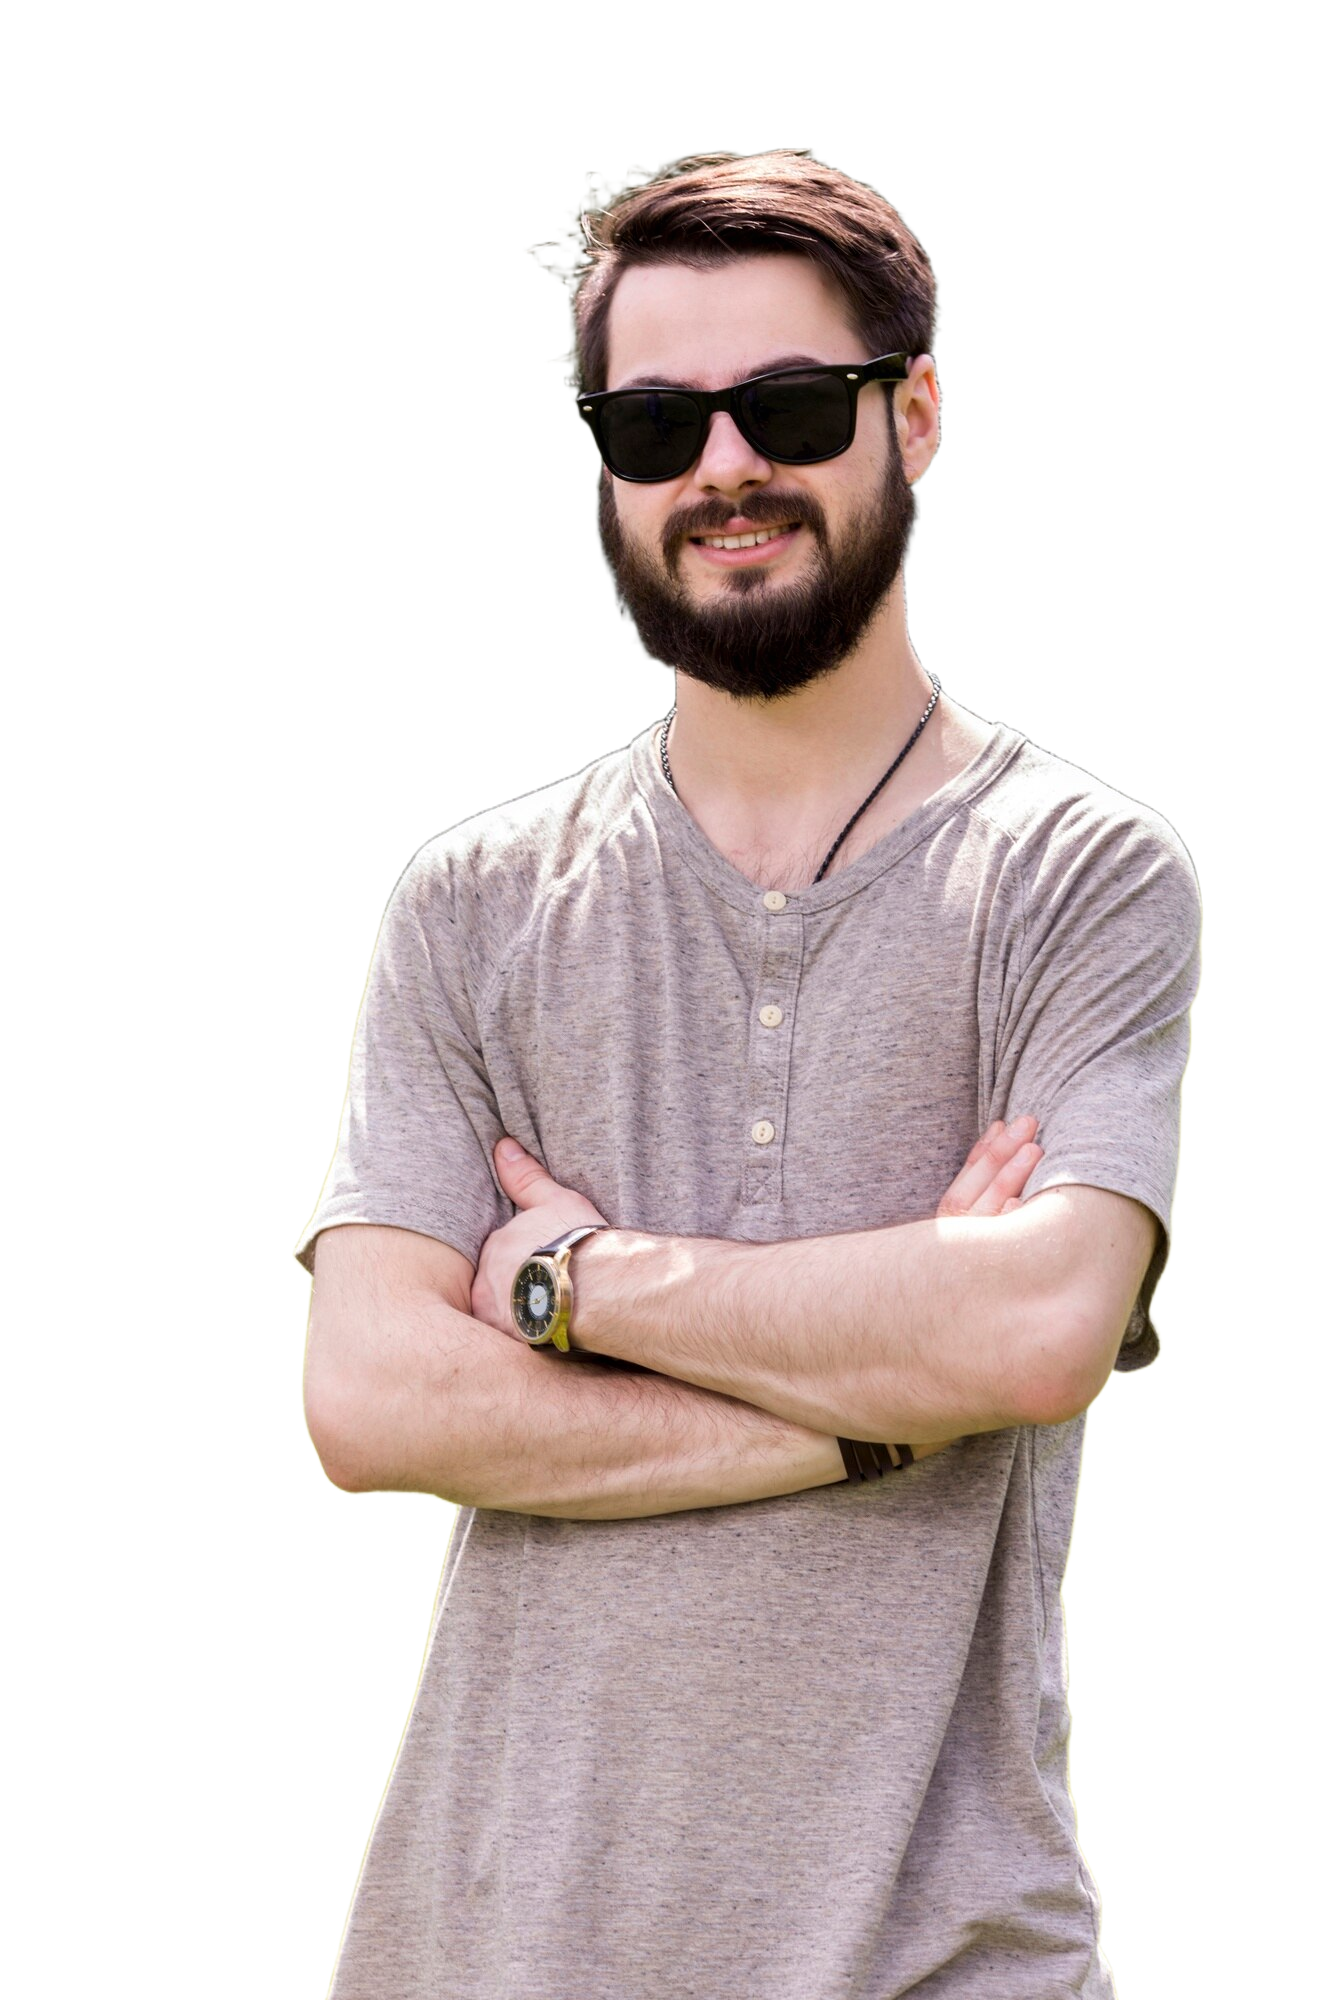
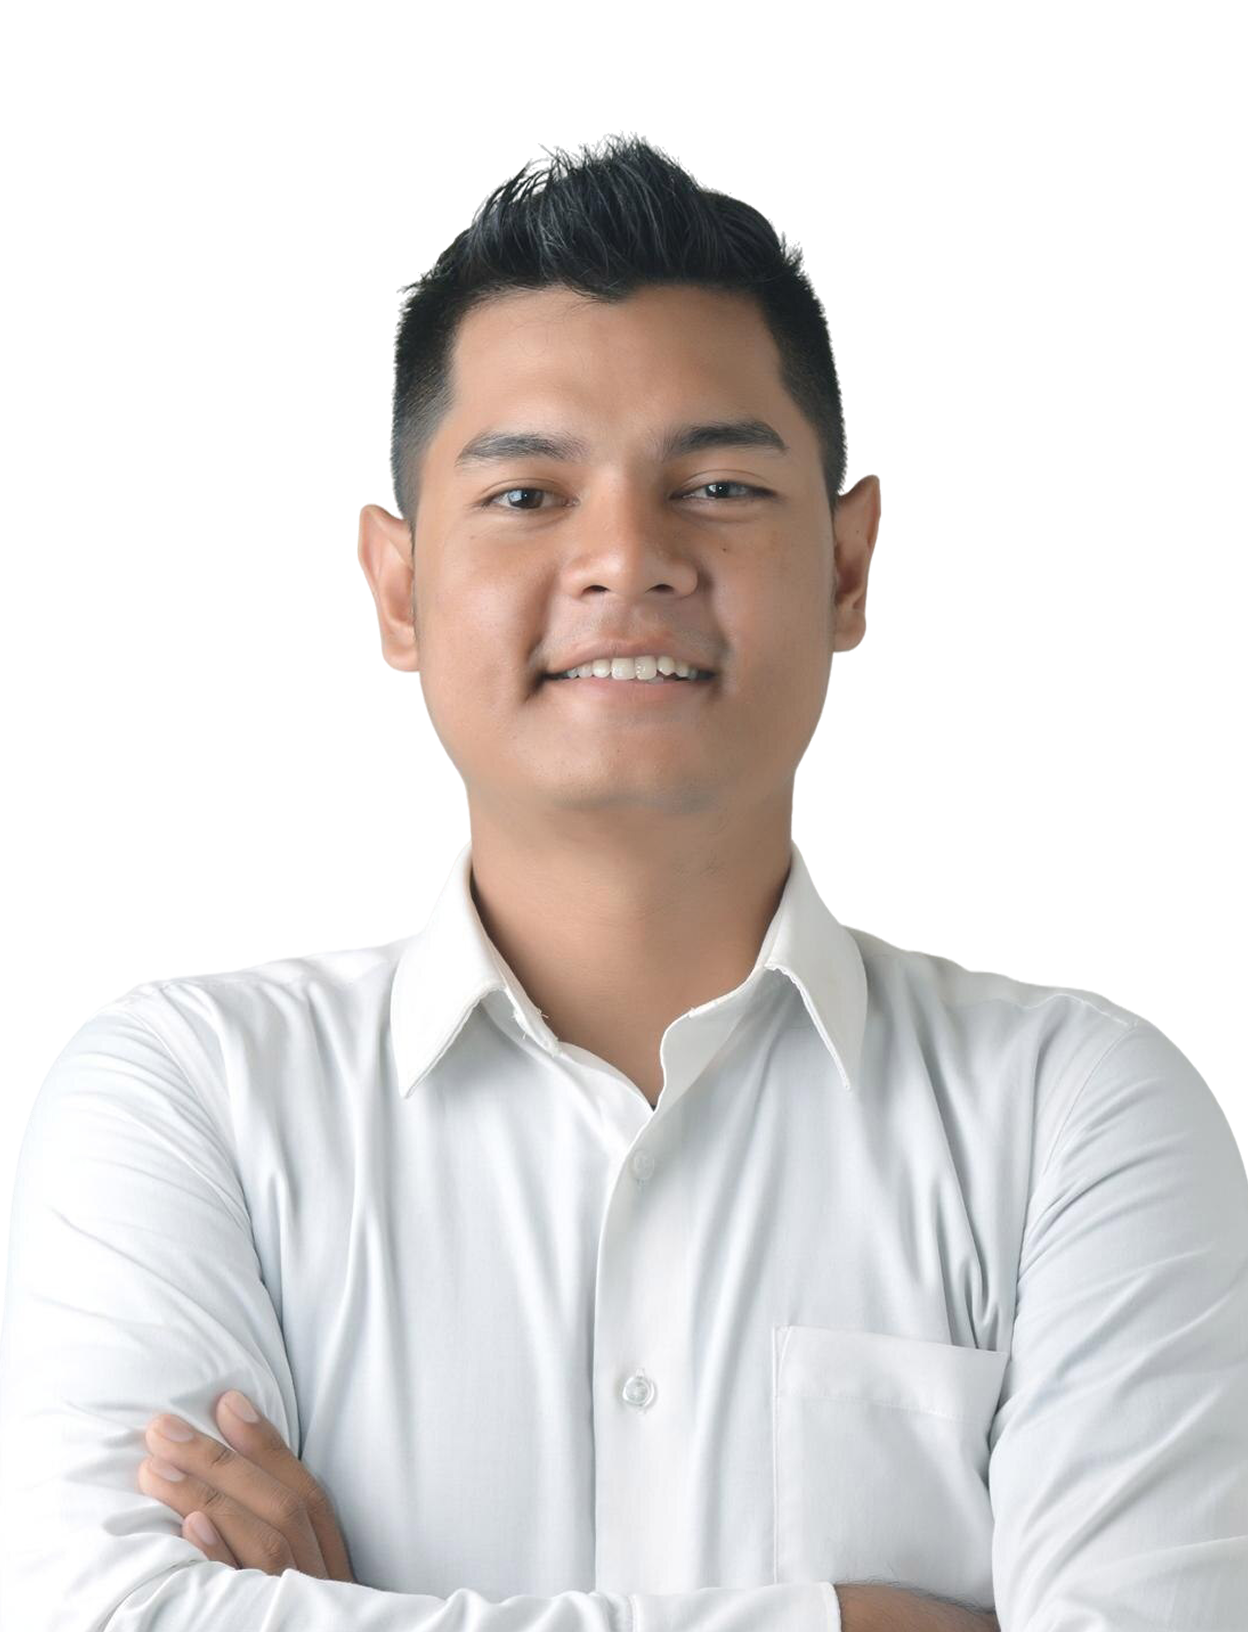
bumps_kreatovate page updated

diff --git a/bumps_kreatovate/src/components/modules/homepage/banner/Banner.tsx b/bumps_kreatovate/src/components/modules/homepage/banner/Banner.tsx
@@ -60,16 +60,16 @@ const Banner = () => {
     >
       <MainBg />
 
-      <div className="absolute z-40 flex flex-col items-center justify-center gap-2 h-full w-full">
-        <div className="flex flex-col items-center gap-2 text-center">
-          <div className="flex items-center bg-white/10  md:px-10  rounded-full mx-auto banner-tagline border border-gray-400 px-2">
+      <div className="absolute ml-[-20] mt-20 z-40 flex flex-col items-center justify-center gap-2 h-full w-full px-4">
+        <div className="flex flex-col items-center gap-2 text-center px-2 mx-auto">
+          <div className="flex items-center justify-center bg-white/10  md:px-10  rounded-full mx-auto banner-tagline border border-gray-400 px-4">
             <Image
               src="/images/hrline1.png"
               alt="heading line vector 1"
               width={80}
               height={16}
             />
-            <p className="font-roboto text-xs md:text-md py-2 font-light text-gradient uppercase">
+            <p className="font-roboto bg-black text-xs md:text-md py-2 font-semibold text-gradient-special  uppercase">
               Top consulting platform
             </p>
             <Image
@@ -83,7 +83,7 @@ const Banner = () => {
 
           <h1 className="mt-3 text-2xl sm:text-4xl md:text-5xl font-jakarta font-bold max-w-2xl banner-heading">
             Transform Ideas with{' '}
-            <span className="text-gradient-special">Kreatovate’s Strategy</span>
+            <span className="text-gradient">Kreatovate’s Strategy</span>
           </h1>
 
           <p className="mt-3 md:mt-4 font-roboto text-sm md:text-lg max-w-3xl banner-subtext">

diff --git a/bumps_kreatovate/src/components/feedback/Reviews.tsx b/bumps_kreatovate/src/components/feedback/Reviews.tsx
@@ -89,7 +89,7 @@ const Reviews = () => {
   return (
     <div className="w-full  mx-auto py-14 text-white relative">
       {/* ---- Top Right Navigation Buttons ---- */}
-      <div className="absolute top-[-16] md:top-[-20] right-6 flex items-center gap-3 z-5">
+      <div className="custom-container absolute top-[-16] md:top-[-20] md:right-65 right-10 flex items-center gap-3 z-5">
         <button
           onClick={scrollPrev}
           className="p-3 rounded-full border border-[#2a2a30] bg-[#121218]/70 hover:bg-[#1c1c22] transition-all duration-300 cursor-pointer"
@@ -112,13 +112,13 @@ const Reviews = () => {
               return (
                 <div
                   key={index}
-                  className="pl-2 min-w-0 shrink-0 grow-0 basis-[85%] sm:basis-[70%] md:basis-[50%] lg:basis-[33%]"
+                  className="pl-2 min-w-0 shrink-0 grow-0 basis-[85%] sm:basis-[70%] md:basis-[50%] lg:basis-[23%]"
                 >
                   <div className="md:p-4">
                     <Card
                       className={`border border-[#E21717] text-white shadow-lg rounded-2xl  md:h-62 transition-all duration-300 ${
                         isActive
-                          ? 'bg-gradient-to-br from-[#E21717] via-[#3700FF] to-[#0B0B0F] text-white shadow-[0_0_20px_rgba(226,23,23,0.3)]'
+                          ? 'bg-gradient text-white shadow-[0_0_20px_rgba(226,23,23,0.3)]'
                           : 'bg-[#121218] text-gray-400 scale-95 opacity-70'
                       }`}
                       style={{

diff --git a/bumps_kreatovate/src/components/solution/Solution.tsx b/bumps_kreatovate/src/components/solution/Solution.tsx
@@ -2,12 +2,13 @@ import Image from "next/image";
 import React from "react";
 import ButtonOne from "../shared/buttons/ButtonOne";
 import ButtonTwo from "../shared/buttons/ButtonTwo";
+import { ArrowBigLeft, ArrowRight } from "lucide-react";
 
 const Solution = () => {
   return (
     <div className="custom-container pt-24 relative w-full overflow-hidden px-2">
       {/* Header Section */}
-      <div className="flex flex-col lg:flex-row justify-between gap-6 mb-8">
+      <div className="flex flex-col lg:flex-row justify-between gap-6 mb-8 px-2">
         <div className="lg:w-1/2">
           <p className="uppercase text-color-gradient font-roboto font-normal text-sm">
             [ Our Solution ]
@@ -52,11 +53,18 @@ const Solution = () => {
               Data + AI to find what converts and scale it reliably.
             </p>
             <div className="w-fit">
+              <Image
+                src="/images/arrow-right.png"
+                alt="Solution Image"
+                width={26}
+                height={26}
+                className="relative left-30 top-8"
+              />
               <ButtonOne
                 btnText="View Details"
                 width="w-full md:w-auto"
-                padding="py-2 px-4"
-                fontSize="text-lg md:text-xl"
+                padding="py-1 px-9"
+                fontSize="text-sm md:text-md"
               />
             </div>
           </div>

diff --git a/bumps_kreatovate/src/app/globals.css b/bumps_kreatovate/src/app/globals.css
@@ -136,10 +136,7 @@
 .text-color-gradient {
   @apply bg-gradient-to-l from-[#E21717] to-[#3700FF] inline-block text-transparent bg-clip-text leading-none pb-[8px];
 }
-.text-gradient{
-  @apply bg-gradient-to-r from-[#E21717] to-[#3700FF] inline-block text-transparent bg-clip-text;
-}
-
+ 
 .heading-btn-bg {
   @apply bg-gradient-to-tr from-[#E20F12] to-[#3853FF];
 }
@@ -179,9 +176,11 @@
 
 .text-gradient{
   @apply  text-transparent bg-clip-text;
-  background-image: linear-gradient(to right, #E21717 0%, #3700FF 100%);
+  background-image: linear-gradient(to left, #E21717 10%, #3700FF 90%);
 }
-
+.bg-gradient {
+  background: linear-gradient(to right, #3700FF 60%, #E21717 20%, #3700FF 30%);
+}
 .text-gradient-special {
   @apply bg-linear-to-r from-[#E93D3D] to-[#4E30FE] inline-block text-transparent bg-clip-text leading-none pb-[8px];
 }

diff --git a/bumps_kreatovate/src/components/feedback/Feedback.tsx b/bumps_kreatovate/src/components/feedback/Feedback.tsx
@@ -4,8 +4,8 @@ import Reviews from './Reviews';
 const Feedback = () => {
   return (
     <div className="bg-[#0F1016]" id="testimonial">
-      <div className="custom-container px-4 sm:px-6 md:px-5 py-6 flex-col gap-8 ">
-        <div className="text-start mt-10 font-[roboto] flex flex-col gap-2 mb-10">
+      <div className=" px-4 sm:px-6 md:px-5 py-6 flex-col gap-8 ">
+        <div className="custom-container text-start mt-10 font-[roboto] flex flex-col gap-2 mb-10">
           <small className=" text-[#4D61FF] text-md mt-6">[ Testimonial ]</small>
           <h2 className="text-3xl md:text-5xl font-bold">What our Customer Say</h2>
         </div>

diff --git a/bumps_kreatovate/src/components/team/Team.tsx b/bumps_kreatovate/src/components/team/Team.tsx
@@ -152,7 +152,7 @@ const Team: React.FC = () => {
                     >
                       <div className="relative w-full rounded-2xl p-px bg-gradient-to-r from-[#E93D3D] to-[#4E30FE] h-full">
                         <div className="relative rounded-2xl overflow-hidden bg-[#1A1A1A] group-hover:scale-[1.01] transition-transform duration-500 h-full">
-                          <div className="w-full aspect-3/4">
+                          <div className="w-full aspect-2/3">
                             <Image
                               width={800}
                               height={1066}
